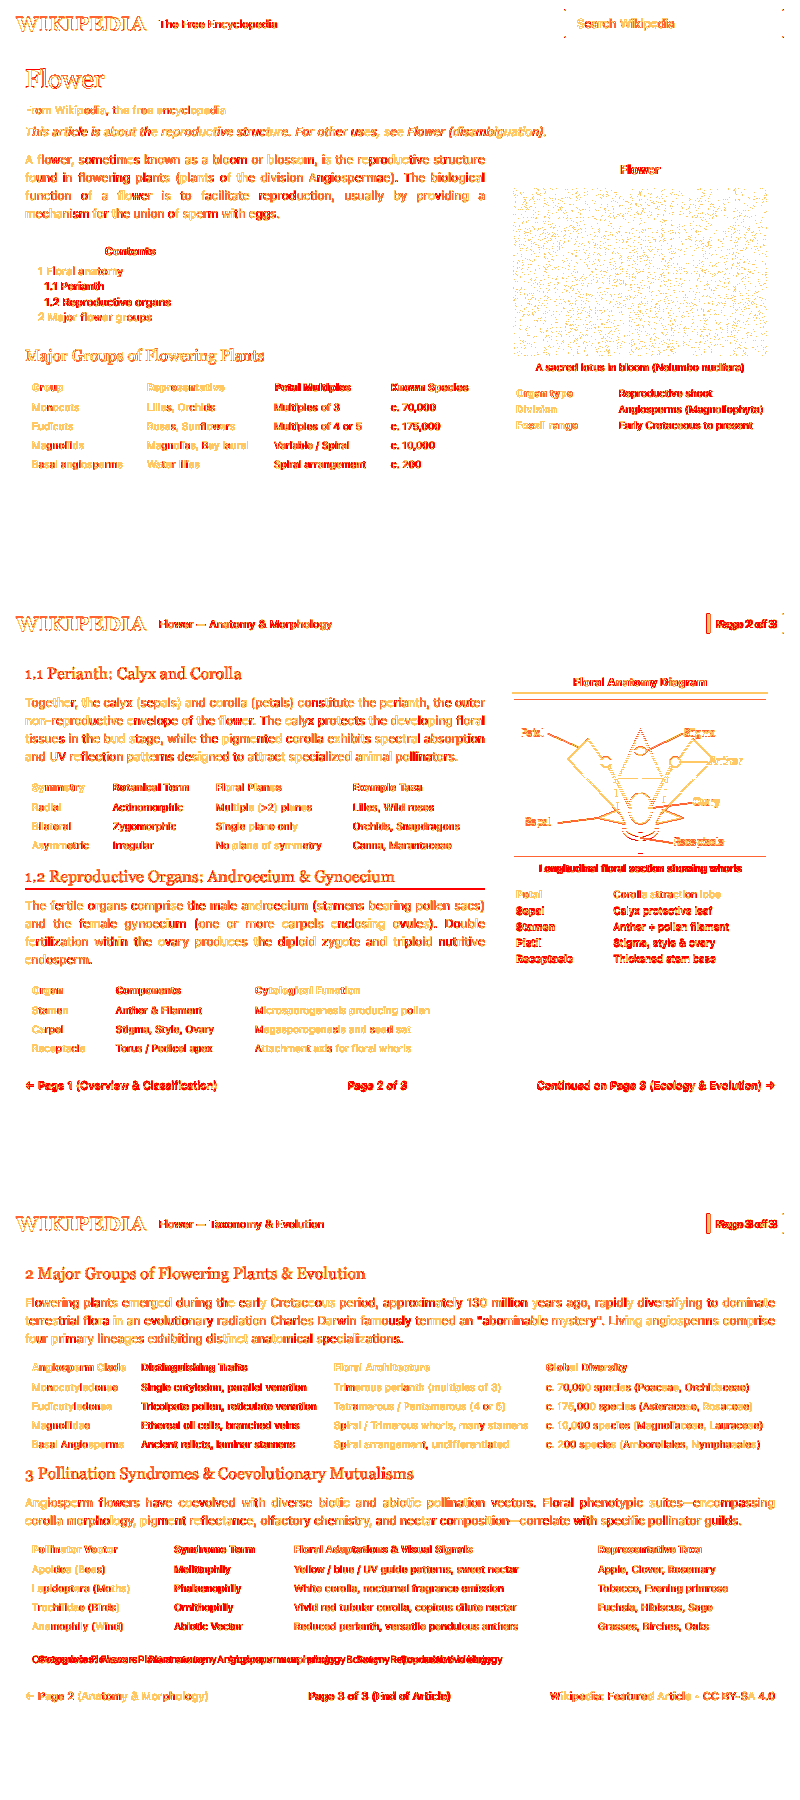
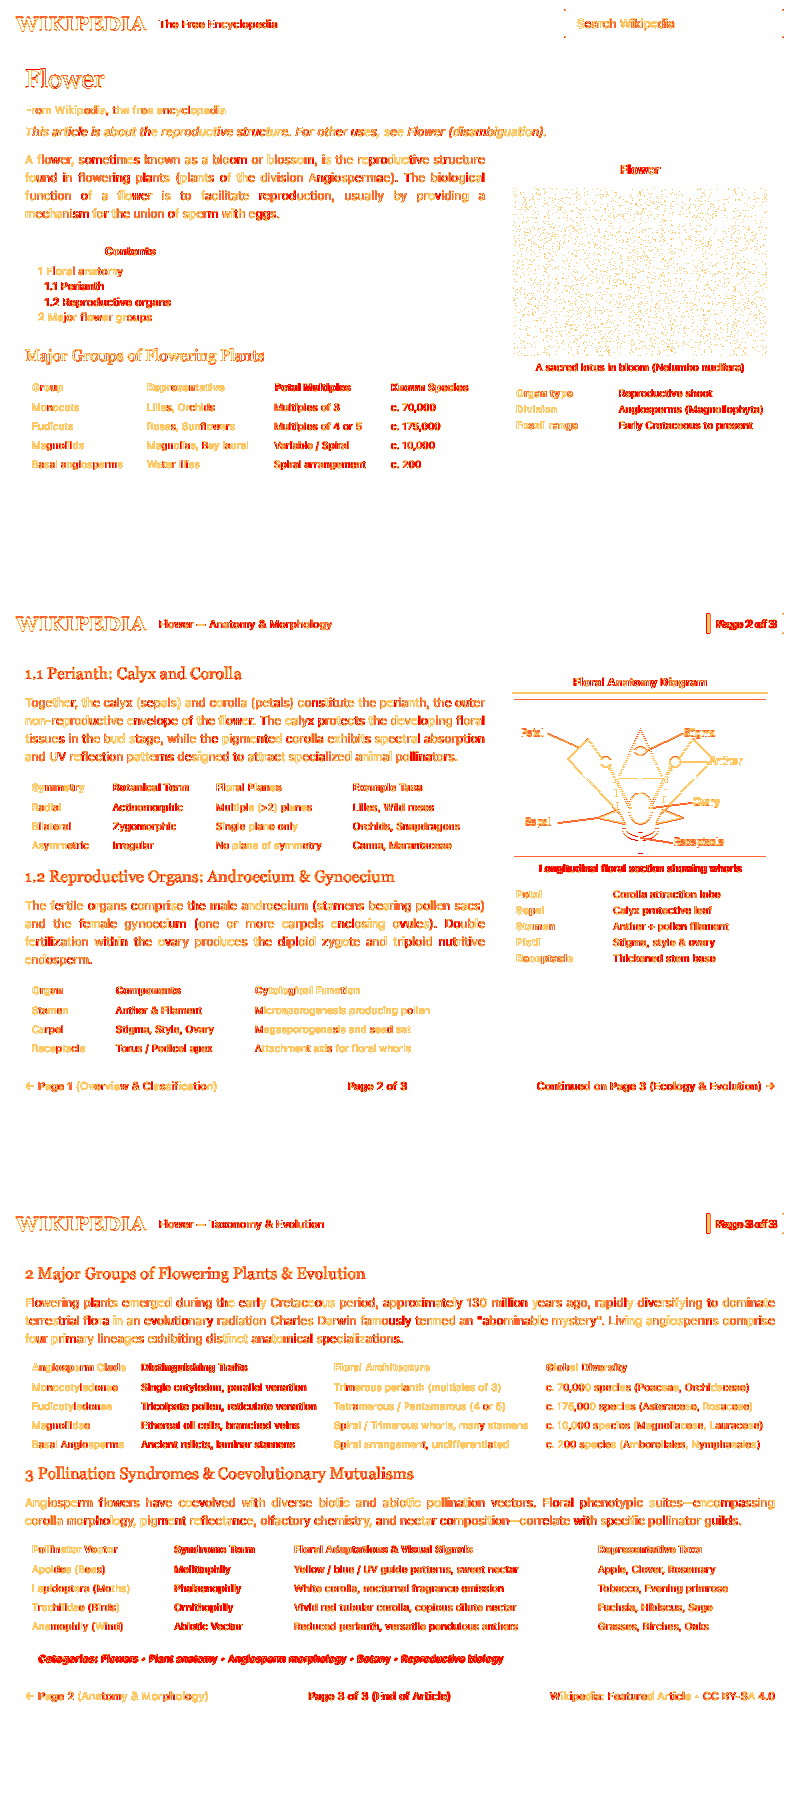
feat(coq): enhance formal precision for multi-page fragmentation, table baselines, and Blink space-justification

Changed region(s): [[0.75, 0.4978, 0.9062, 0.5289], [0.625, 0.4978, 0.6875, 0.5289]]

diff --git a/render_wikipedia_flowers_multipage.c b/render_wikipedia_flowers_multipage.c
@@ -368,7 +368,7 @@ static void render_flower_page_2(FrameBuffer* fb, int base_y) {
     // H2 Section 1.2: Reproductive Organs
     blink_skia_font_draw_text(fb->pixels, fb->width, fb->height,
                               25, base_y + 282, "1.2 Reproductive Organs: Androecium & Gynoecium", "Georgia", 16.0f, BLINK_FONT_STYLE_NORMAL, COLOR_TEXT_BLACK);
-    fb_fill_rect(fb, 25, base_y + 289, 460, 1, COLOR_BORDER_GRAY);
+    fb_fill_rect(fb, 25, base_y + 288, 460, 1, COLOR_BORDER_GRAY);
 
     // Paragraph 2 (4 lines)
     const char* p2 = "The fertile organs comprise the male androecium (stamens bearing pollen sacs) and the female gynoecium (one or more carpels enclosing ovules). Double fertilization within the ovary produces the diploid zygote and triploid nutritive endosperm.";
@@ -428,28 +428,28 @@ static void render_flower_page_2(FrameBuffer* fb, int base_y) {
 
     // Infobox metadata rows
     blink_skia_font_draw_text(fb->pixels, fb->width, fb->height, 516, base_y + 298, "Petal", "Helvetica", 10.0f, BLINK_FONT_STYLE_BOLD, COLOR_TEXT_MUTED);
-    blink_skia_font_draw_text(fb->pixels, fb->width, fb->height, 613.5f, base_y + 298, "Corolla attraction lobe", "Helvetica", 10.0f, BLINK_FONT_STYLE_NORMAL, COLOR_TEXT_BLACK);
+    blink_skia_font_draw_text(fb->pixels, fb->width, fb->height, 613, base_y + 298, "Corolla attraction lobe", "Helvetica", 10.0f, BLINK_FONT_STYLE_NORMAL, COLOR_TEXT_BLACK);
 
-    blink_skia_font_draw_text(fb->pixels, fb->width, fb->height, 516, base_y + 315, "Sepal", "Helvetica", 10.0f, BLINK_FONT_STYLE_BOLD, COLOR_TEXT_MUTED);
-    blink_skia_font_draw_text(fb->pixels, fb->width, fb->height, 613.5f, base_y + 315, "Calyx protective leaf", "Helvetica", 10.0f, BLINK_FONT_STYLE_NORMAL, COLOR_TEXT_BLACK);
+    blink_skia_font_draw_text(fb->pixels, fb->width, fb->height, 516, base_y + 314, "Sepal", "Helvetica", 10.0f, BLINK_FONT_STYLE_BOLD, COLOR_TEXT_MUTED);
+    blink_skia_font_draw_text(fb->pixels, fb->width, fb->height, 613, base_y + 314, "Calyx protective leaf", "Helvetica", 10.0f, BLINK_FONT_STYLE_NORMAL, COLOR_TEXT_BLACK);
 
-    blink_skia_font_draw_text(fb->pixels, fb->width, fb->height, 516, base_y + 331, "Stamen", "Helvetica", 10.0f, BLINK_FONT_STYLE_BOLD, COLOR_TEXT_MUTED);
-    blink_skia_font_draw_text(fb->pixels, fb->width, fb->height, 613.5f, base_y + 331, "Anther + pollen filament", "Helvetica", 10.0f, BLINK_FONT_STYLE_NORMAL, COLOR_TEXT_BLACK);
+    blink_skia_font_draw_text(fb->pixels, fb->width, fb->height, 516, base_y + 330, "Stamen", "Helvetica", 10.0f, BLINK_FONT_STYLE_BOLD, COLOR_TEXT_MUTED);
+    blink_skia_font_draw_text(fb->pixels, fb->width, fb->height, 613, base_y + 330, "Anther + pollen filament", "Helvetica", 10.0f, BLINK_FONT_STYLE_NORMAL, COLOR_TEXT_BLACK);
 
-    blink_skia_font_draw_text(fb->pixels, fb->width, fb->height, 516, base_y + 347, "Pistil", "Helvetica", 10.0f, BLINK_FONT_STYLE_BOLD, COLOR_TEXT_MUTED);
-    blink_skia_font_draw_text(fb->pixels, fb->width, fb->height, 613.5f, base_y + 347, "Stigma, style & ovary", "Helvetica", 10.0f, BLINK_FONT_STYLE_NORMAL, COLOR_TEXT_BLACK);
+    blink_skia_font_draw_text(fb->pixels, fb->width, fb->height, 516, base_y + 346, "Pistil", "Helvetica", 10.0f, BLINK_FONT_STYLE_BOLD, COLOR_TEXT_MUTED);
+    blink_skia_font_draw_text(fb->pixels, fb->width, fb->height, 613, base_y + 346, "Stigma, style & ovary", "Helvetica", 10.0f, BLINK_FONT_STYLE_NORMAL, COLOR_TEXT_BLACK);
 
-    blink_skia_font_draw_text(fb->pixels, fb->width, fb->height, 516, base_y + 363, "Receptacle", "Helvetica", 10.0f, BLINK_FONT_STYLE_BOLD, COLOR_TEXT_MUTED);
-    blink_skia_font_draw_text(fb->pixels, fb->width, fb->height, 613.5f, base_y + 363, "Thickened stem base", "Helvetica", 10.0f, BLINK_FONT_STYLE_NORMAL, COLOR_TEXT_BLACK);
+    blink_skia_font_draw_text(fb->pixels, fb->width, fb->height, 516, base_y + 362, "Receptacle", "Helvetica", 10.0f, BLINK_FONT_STYLE_BOLD, COLOR_TEXT_MUTED);
+    blink_skia_font_draw_text(fb->pixels, fb->width, fb->height, 613, base_y + 362, "Thickened stem base", "Helvetica", 10.0f, BLINK_FONT_STYLE_NORMAL, COLOR_TEXT_BLACK);
 
     // Page Footer Nav Line
     fb_fill_rect(fb, 25, base_y + 470, 750, 1, COLOR_TABLE_HEAD);
     blink_skia_font_draw_text(fb->pixels, fb->width, fb->height,
-                              25, base_y + 489, "\xE2\x86\x90 Page 1 (Overview & Classification)", "Helvetica", 11.0f, BLINK_FONT_STYLE_NORMAL, COLOR_LINK_BLUE);
+                              25, base_y + 490, "\xE2\x86\x90 Page 1 (Overview & Classification)", "Helvetica", 11.0f, BLINK_FONT_STYLE_NORMAL, COLOR_LINK_BLUE);
     blink_skia_font_draw_text(fb->pixels, fb->width, fb->height,
-                              348, base_y + 489, "Page 2 of 3", "Helvetica", 11.0f, BLINK_FONT_STYLE_NORMAL, COLOR_TEXT_MUTED);
+                              348, base_y + 490, "Page 2 of 3", "Helvetica", 11.0f, BLINK_FONT_STYLE_NORMAL, COLOR_TEXT_MUTED);
     blink_skia_font_draw_text(fb->pixels, fb->width, fb->height,
-                              537, base_y + 489, "Continued on Page 3 (Ecology & Evolution) \xE2\x86\x92", "Helvetica", 11.0f, BLINK_FONT_STYLE_NORMAL, COLOR_LINK_BLUE);
+                              537, base_y + 490, "Continued on Page 3 (Ecology & Evolution) \xE2\x86\x92", "Helvetica", 11.0f, BLINK_FONT_STYLE_NORMAL, COLOR_LINK_BLUE);
 }
 
 // ----------------------------------------------------------------------------
@@ -586,7 +586,9 @@ static void render_flower_page_3(FrameBuffer* fb, int base_y) {
     fb_fill_rect(fb, 25, base_y + 446, 750, 26, COLOR_WIKI_GRAY);
     fb_stroke_rect(fb, 25, base_y + 446, 750, 26, COLOR_BORDER_GRAY);
     blink_skia_font_draw_text(fb->pixels, fb->width, fb->height,
-                              32, base_y + 463, "Categories: Flowers \xE2\x80\xA2 Plant anatomy \xE2\x80\xA2 Angiosperm morphology \xE2\x80\xA2 Botany \xE2\x80\xA2 Reproductive biology", "Helvetica", 10.0f, BLINK_FONT_STYLE_NORMAL, COLOR_TEXT_MUTED);
+                              39, base_y + 462, "Categories:", "Helvetica", 10.0f, BLINK_FONT_STYLE_BOLD, COLOR_TEXT_MUTED);
+    blink_skia_font_draw_text(fb->pixels, fb->width, fb->height,
+                              102, base_y + 462, "Flowers \xE2\x80\xA2 Plant anatomy \xE2\x80\xA2 Angiosperm morphology \xE2\x80\xA2 Botany \xE2\x80\xA2 Reproductive biology", "Helvetica", 10.0f, BLINK_FONT_STYLE_NORMAL, COLOR_TEXT_MUTED);
 
     // Page Footer Nav Line
     fb_fill_rect(fb, 25, base_y + 480, 750, 1, COLOR_TABLE_HEAD);

diff --git a/blink_skia_font_engine.c b/blink_skia_font_engine.c
@@ -321,21 +321,51 @@ void blink_skia_font_draw_text_box(uint32_t* fb, int fb_w, int fb_h,
         }
         CTLineRef line = CTTypesetterCreateLine(typesetter, CFRangeMake(start, visible_count));
 
-        // W3C CSS Text 3 §7.1 Justification:
-        // If not the last line of paragraph, justify to w
-        CTLineRef line_to_draw = line;
-        CTLineRef justified_line = NULL;
+        // W3C CSS Text 3 §7.1 & Blink ShapeResultSpacing Justification:
+        // When text-align: justify is active, only space opportunities are expanded.
+        // Inter-letter spacing within words remains pristine per CSS Text 3 §7.3.
         if (start + count < total_len) {
-            justified_line = CTLineCreateJustifiedLine(line, 1.0f, w);
-            if (justified_line) {
-                line_to_draw = justified_line;
+            int space_count = 0;
+            for (CFIndex i = 0; i < visible_count; i++) {
+                if (CFStringGetCharacterAtIndex(cf_str, start + i) == ' ') {
+                    space_count++;
+                }
+            }
+            if (space_count > 0) {
+                CGFloat natural_w = CTLineGetTypographicBounds(line, NULL, NULL, NULL);
+                CGFloat excess = (CGFloat)w - natural_w;
+                if (excess > 0) {
+                    CGFloat extra_space = excess / (CGFloat)space_count;
+                    CGFloat cur_x = x;
+                    CFIndex word_start = start;
+                    for (CFIndex i = 0; i <= visible_count; i++) {
+                        if (i == visible_count || CFStringGetCharacterAtIndex(cf_str, start + i) == ' ') {
+                            CFIndex word_len = (start + i) - word_start;
+                            if (word_len > 0) {
+                                CTLineRef word_line = CTTypesetterCreateLine(typesetter, CFRangeMake(word_start, word_len));
+                                CGContextSetTextPosition(ctx, cur_x, current_baseline);
+                                CTLineDraw(word_line, ctx);
+                                cur_x += CTLineGetTypographicBounds(word_line, NULL, NULL, NULL);
+                                CFRelease(word_line);
+                            }
+                            if (i < visible_count) {
+                                CTLineRef sp_line = CTTypesetterCreateLine(typesetter, CFRangeMake(start + i, 1));
+                                cur_x += CTLineGetTypographicBounds(sp_line, NULL, NULL, NULL) + extra_space;
+                                CFRelease(sp_line);
+                            }
+                            word_start = start + i + 1;
+                        }
+                    }
+                    CFRelease(line);
+                    start += count;
+                    current_baseline += line_height;
+                    continue;
+                }
             }
         }
 
         CGContextSetTextPosition(ctx, x, current_baseline);
-        CTLineDraw(line_to_draw, ctx);
-
-        if (justified_line) CFRelease(justified_line);
+        CTLineDraw(line, ctx);
         CFRelease(line);
 
         start += count;
